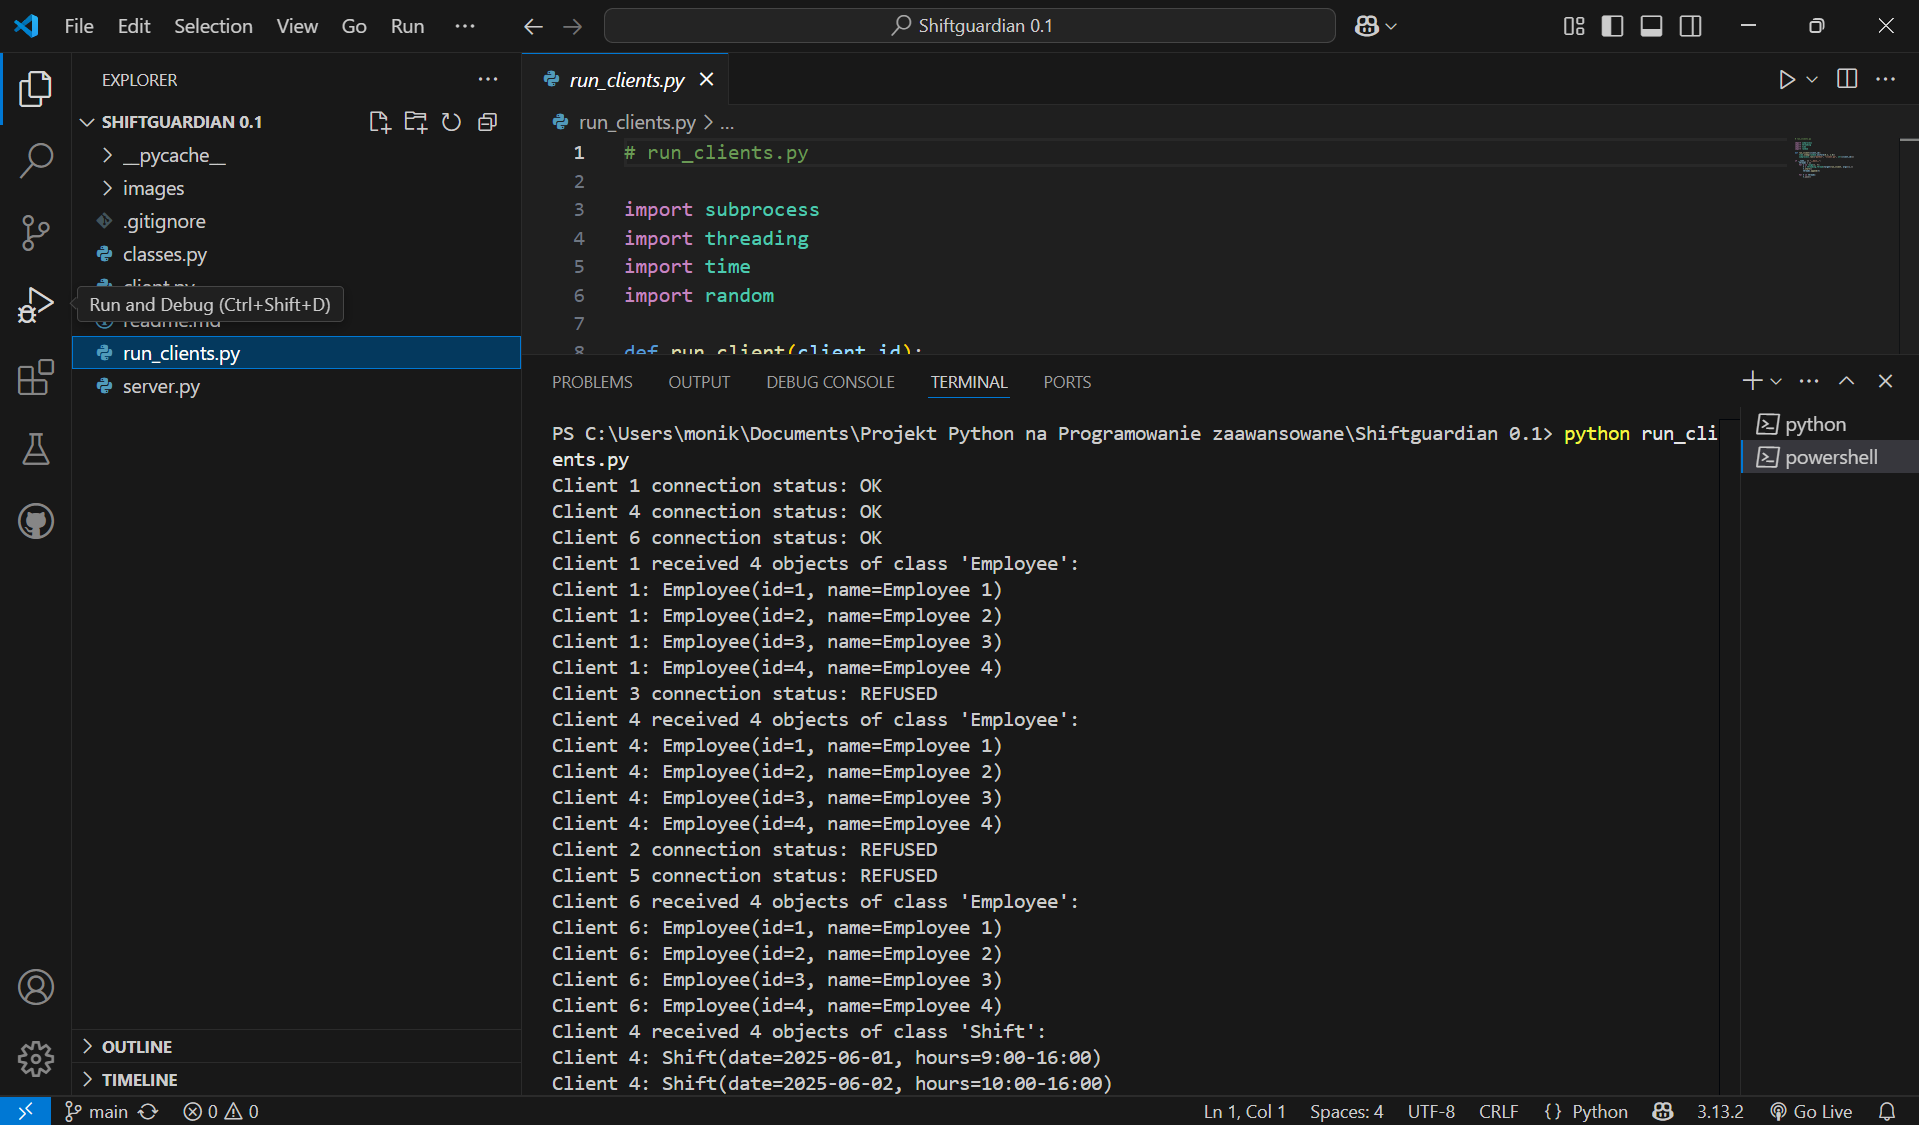
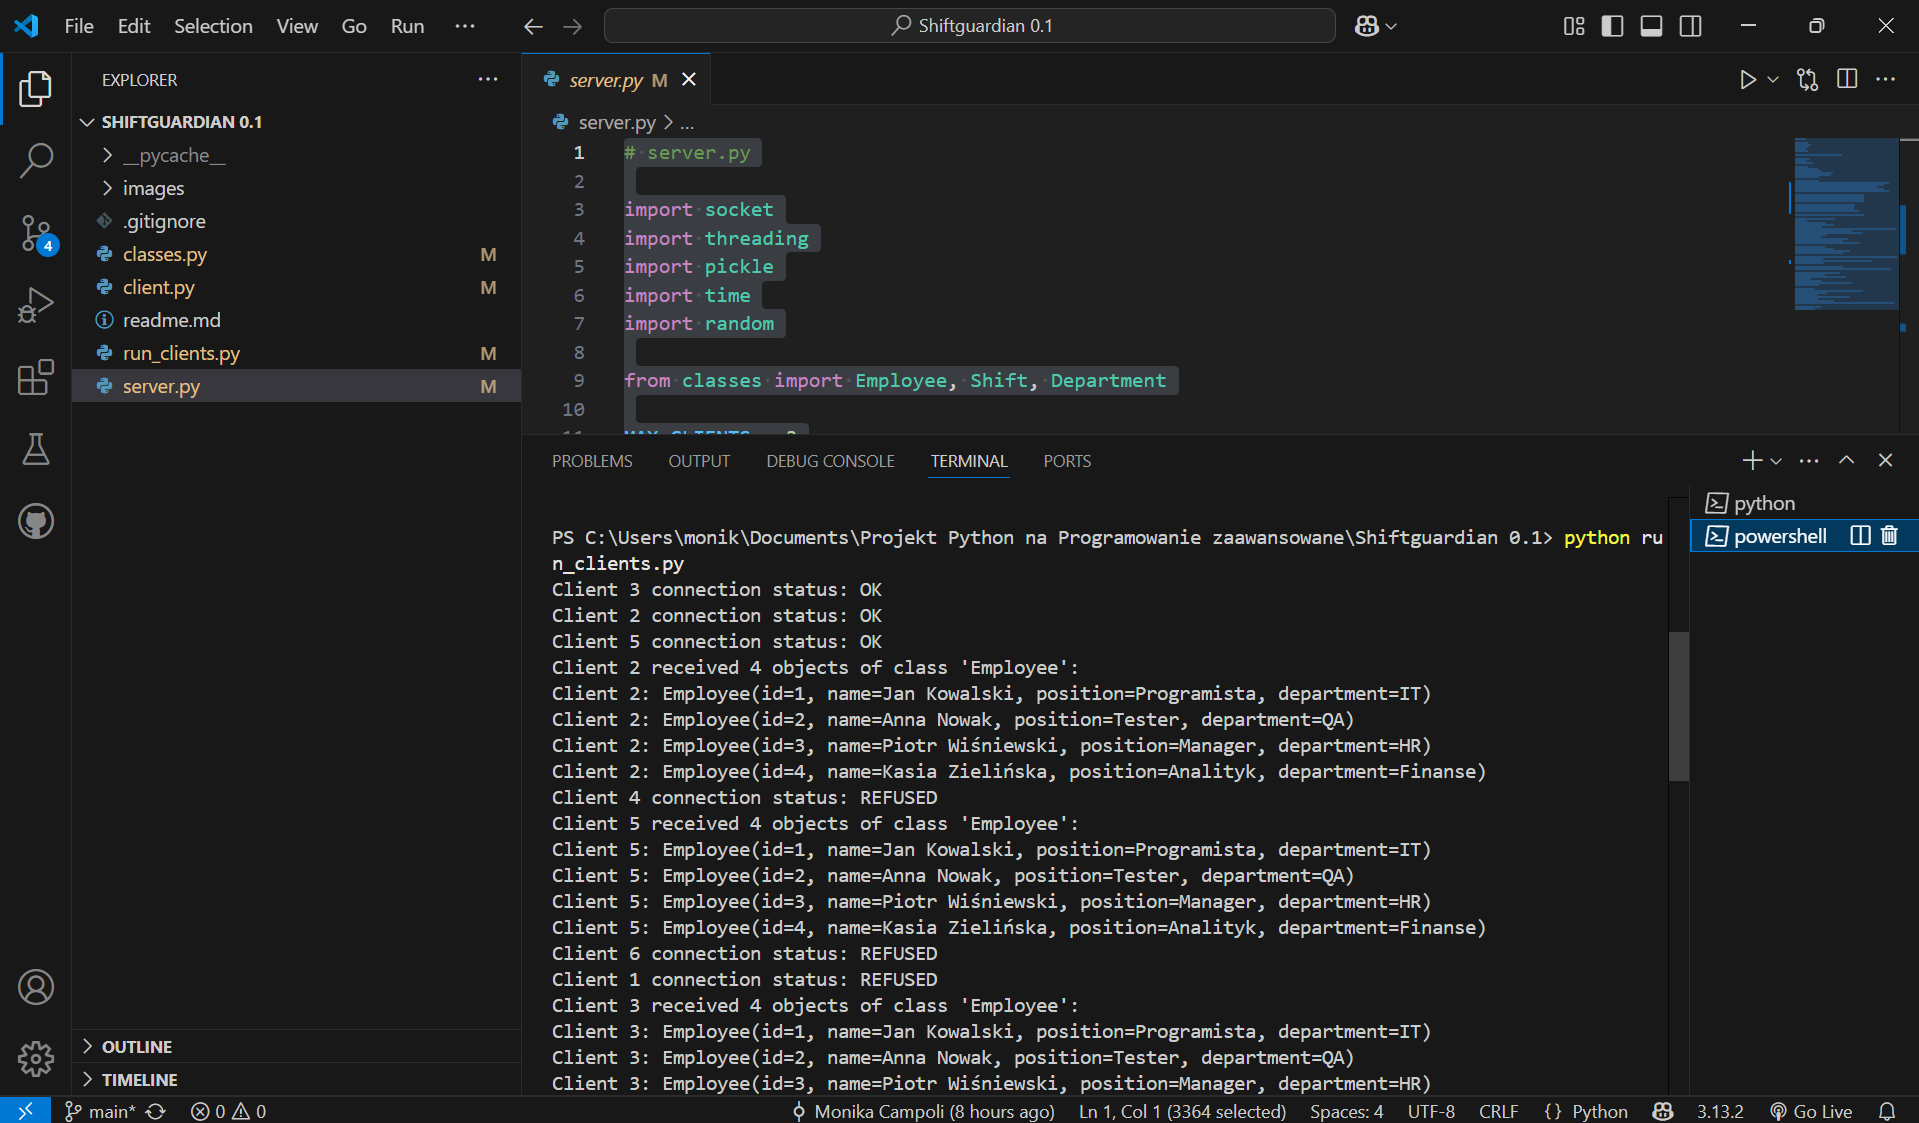
Aktualizacja projektu: klient.py, server.py, classes.py, run_clients.py, README.md i folder images

diff --git a/server.py b/server.py
@@ -20,10 +20,22 @@ class Server:
         self.init_data()
 
     def init_data(self):
-        for i in range(1, 5):
-            self.data_map[f'employee_{i}'] = Employee(i, f'Employee {i}')
-            self.data_map[f'shift_{i}'] = Shift(f'2025-06-0{i}', f'{8+i}:00-16:00')
-            self.data_map[f'department_{i}'] = Department(f'Department {i}', 5 + i)
+        # Tworzymy przykładowych pracowników z rozbiciem imienia i nazwiska oraz innymi polami
+        self.data_map['employee_1'] = Employee(1, "Jan", "Kowalski", "Programista", "IT")
+        self.data_map['employee_2'] = Employee(2, "Anna", "Nowak", "Tester", "QA")
+        self.data_map['employee_3'] = Employee(3, "Piotr", "Wiśniewski", "Manager", "HR")
+        self.data_map['employee_4'] = Employee(4, "Kasia", "Zielińska", "Analityk", "Finanse")
+
+        self.data_map['shift_1'] = Shift('2025-06-01', '08:00-16:00')
+        self.data_map['shift_2'] = Shift('2025-06-02', '10:00-18:00')
+        self.data_map['shift_3'] = Shift('2025-06-03', '12:00-20:00')
+        self.data_map['shift_4'] = Shift('2025-06-04', '09:00-17:00')
+
+        self.data_map['department_1'] = Department('IT', 10)
+        self.data_map['department_2'] = Department('QA', 5)
+        self.data_map['department_3'] = Department('HR', 3)
+        self.data_map['department_4'] = Department('Finanse', 8)
+
         print(f"Initialized data keys: {list(self.data_map.keys())}")
 
     def client_thread(self, conn, addr):
@@ -47,8 +59,8 @@ class Server:
 
                 objs = [obj for key, obj in self.data_map.items() if key.startswith(class_name + "_")]
                 if not objs:
-                    if self.data_map:
-                        objs = [next(iter(self.data_map.values()))]
+                    # Jeśli nie ma obiektów danej klasy, wysyłamy pustą listę
+                    objs = []
 
                 conn.sendall(pickle.dumps(objs))
                 print(f"Sent {len(objs)} objects of class '{class_name}' to client {client_id}")

diff --git a/classes.py b/classes.py
@@ -1,15 +1,20 @@
 # classes.py
 
 class Employee:
-    def __init__(self, emp_id, full_name):
+    def __init__(self, emp_id, first_name, last_name, position, department):
         self.emp_id = emp_id
-        self.full_name = full_name
+        self.first_name = first_name
+        self.last_name = last_name
+        self.position = position
+        self.department = department
 
     def __str__(self):
-        return f"Employee(id={self.emp_id}, name={self.full_name})"
+        return (f"Employee(id={self.emp_id}, name={self.first_name} {self.last_name}, "
+                f"position={self.position}, department={self.department})")
 
     def __eq__(self, other):
         return isinstance(other, Employee) and self.emp_id == other.emp_id
+
 
 class Shift:
     def __init__(self, date, hours):
@@ -21,6 +26,7 @@ class Shift:
 
     def __eq__(self, other):
         return isinstance(other, Shift) and self.date == other.date and self.hours == other.hours
+
 
 class Department:
     def __init__(self, name, people_count):

diff --git a/client.py b/client.py
@@ -20,7 +20,7 @@ class Client(threading.Thread):
     def __init__(self, client_id):
         super().__init__()
         self.client_id = client_id
-        self.classes_to_request = ['Employee', 'Shift', 'Department', 'Project']  # 'Project' nie istnieje
+        self.classes_to_request = ['Employee', 'Shift', 'Department']  # usunięto 'Project'
 
     def run(self):
         try:
@@ -52,8 +52,6 @@ class Client(threading.Thread):
                                     print(f"Client {self.client_id}: {obj}")
                                 elif cls_name == "Department" and isinstance(obj, Department):
                                     print(f"Client {self.client_id}: {obj}")
-                                elif cls_name == "Project":
-                                    raise TypeError("No such class Project")
                                 else:
                                     raise TypeError(f"Type mismatch for class {cls_name}")
                             except Exception as e:

diff --git a/run_clients.py b/run_clients.py
@@ -1,5 +1,3 @@
-# run_clients.py
-
 import subprocess
 import threading
 import time
